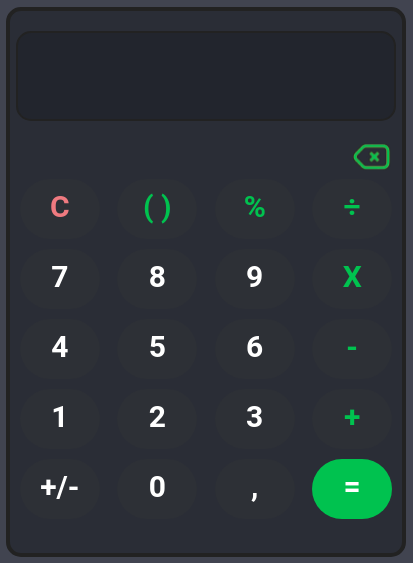
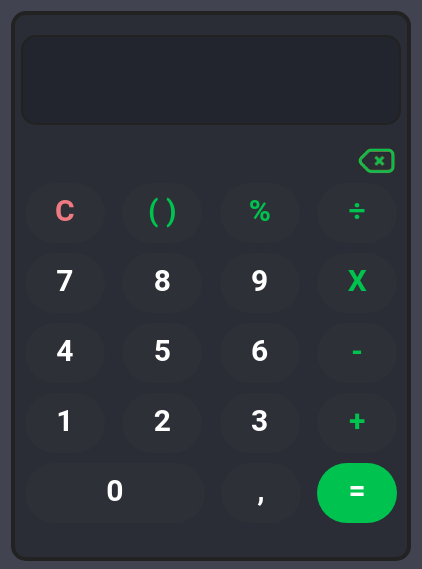
Calculadora semi-pronta

diff --git a/js/script.js b/js/script.js
@@ -3,6 +3,7 @@ const resultado = document.getElementById('resultado');
 const nodeList = document.querySelectorAll('li');
 const valorFinal = document.querySelector('.total');
 const del = document.getElementsByClassName('botao-delete');
+const ultimoCalculo = document.getElementById('calculo');
 const valorInnerText = [];
 let num = 0;
 let num2 = '';
@@ -33,6 +34,7 @@ console.log(valorInnerText);
 
 clear.addEventListener('click', function () {
     digito = '';
+    ultimoCalculo.textContent = '';
 }, false);
 
 for (let i = 0; i < nodeList.length; i++) {
@@ -53,7 +55,7 @@ for (let i = 0; i < nodeList.length; i++) {
         } else if (hasClass(nodeList[i], 'divisao')) {
             digito += ` / `;
         } else if (hasClass(nodeList[i], 'multi')) {
-            digito += ` X `;
+            digito += ` * `;
         } else if (hasClass(nodeList[i], 'sub')) {
             digito += ` - `;
         } else if (hasClass(nodeList[i], 'soma')) {
@@ -62,11 +64,11 @@ for (let i = 0; i < nodeList.length; i++) {
             digito += `.`;
         }
 
-        if(hasClass(nodeList[i], 'parenteses')) {
-            if(digito.indexOf('(') === -1) {
-                digito += ' (';
-            } else if(digito.indexOf(')') === -1) {
-                digito  += ') ';
+        if (hasClass(nodeList[i], 'parenteses')) {
+            if (digito.indexOf('(') === -1) {
+                digito += '(';
+            } else if (digito.indexOf(')') === -1) {
+                digito += ')';
             }
         }
 
@@ -78,18 +80,12 @@ for (let i = 0; i < nodeList.length; i++) {
     }, false);
 }
 
-del[0].addEventListener('click', function () {
-    digito = digito.slice(0, (digito.length - 1));
-    resultado.textContent = digito;
-    console.log(digito)
-}, false);
-
 console.log(del)
 
 valorFinal.addEventListener('click', function () {
 
     if (digito.indexOf("%") !== -1) {
-        
+
         console.log(digito.indexOf("%"));
 
         for (let j = 0; j < operadores.length; j++) {
@@ -97,7 +93,7 @@ valorFinal.addEventListener('click', function () {
             let porcentagem;
             let num4;
 
-            if(digito.indexOf("X") !== -1) {
+            if (digito.indexOf("X") !== -1) {
 
                 porcentagem = parseFloat(digito.substring(0, digito.indexOf('X') - 1));
                 num4 = parseFloat(digito.substring(digito.indexOf("X") + 1, digito.indexOf("%")));
@@ -109,7 +105,7 @@ valorFinal.addEventListener('click', function () {
 
                 console.log(digito);
 
-            }else if (digito.indexOf(operadores[j]) !== -1) {
+            } else if (digito.indexOf(operadores[j]) !== -1) {
                 porcentagem = parseFloat(digito.substring(0, digito.indexOf(operadores[j]) - 1));
                 num4 = parseFloat(digito.substring(digito.indexOf(operadores[j]) + 1, digito.indexOf("%")));
 
@@ -127,9 +123,16 @@ valorFinal.addEventListener('click', function () {
         }
     }
 
-    total = digito.replace('X', '*');
+    ultimoCalculo.textContent = digito;
+    total = digito;
     total = eval(total);
-    resultado.textContent = total;
     digito = total;
+    resultado.textContent = total;
     console.log(resultado);
+}, false);
+
+del[0].addEventListener('click', function () {
+    digito = digito.slice(0, (digito.length - 1));
+    resultado.textContent = digito;
+    console.log(digito)
 }, false);

diff --git a/index.html b/index.html
@@ -13,6 +13,7 @@
 <body>
     <div class="calc">
         <div class="painel">
+            <span id="calculo"></span>
             <span id="resultado"></span>
         </div>
         <div>
@@ -36,7 +37,7 @@
                 <li class="botao numeros num2">2</li>
                 <li class="botao numeros num3">3</li>
                 <li class="botao soma">+</li>
-                <li class="botao negativo-positivo">+/-</li>
+<!--                <li class="botao negativo-positivo">+/-</li>-->
                 <li class="botao numeros zero">0</li>
                 <li class="botao virgula">,</li>
                 <li class="botao total">=</li>

diff --git a/css/style.css b/css/style.css
@@ -38,13 +38,19 @@ li {
     color: #fff;
 }
 
+#calculo {
+    font-size: 20px;
+    padding: 15px;
+    color: #747c86;
+}
+
 #resultado {
     width: 370px;
     overflow: hidden;
     position:inherit;
     padding: 15px;
     float: right;
-    margin-top: 35px;
+    margin-top: 5px;
     font-size: 26px;
 }
 
@@ -77,6 +83,10 @@ li {
     background-color: #2d3036;
     border-radius: 50px;
     padding: 10px;
+}
+
+.zero {
+    width: 180px;
 }
 
 .clear {
